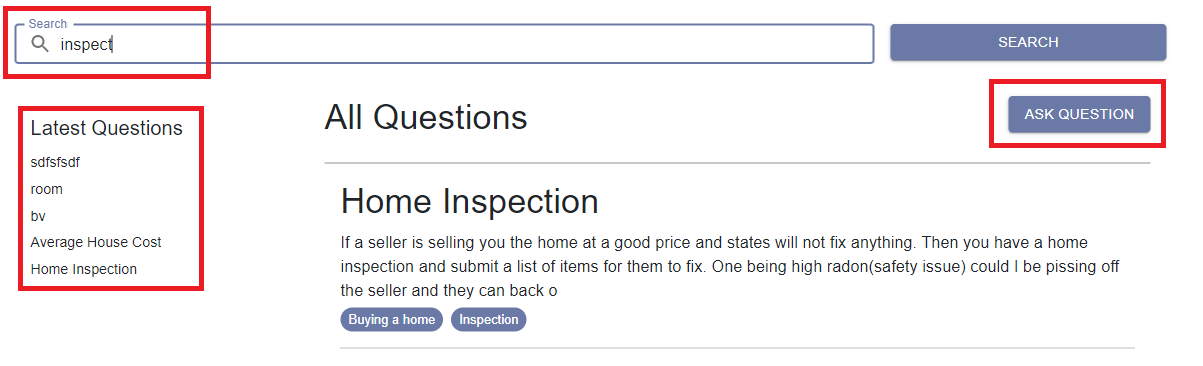
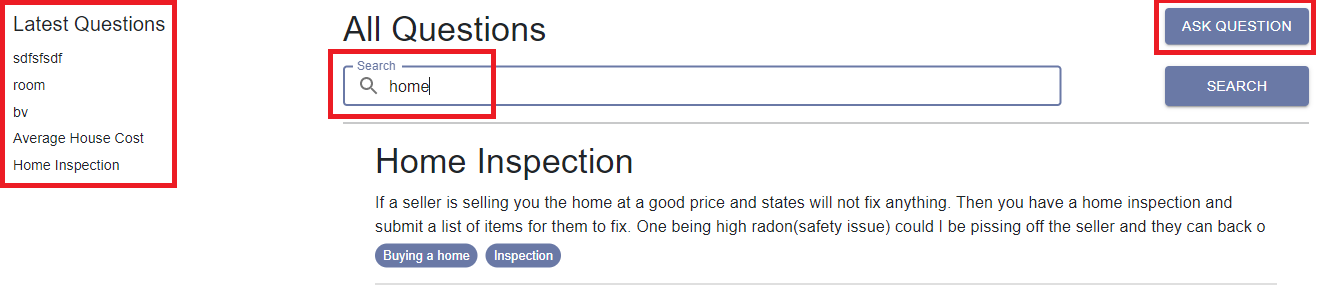
adjusted forum search bar

Changed region(s): [[0.0, 0.0, 1.0, 0.8154], [0.2768, 0.6342, 0.9534, 0.9664], [0.2768, 0.4832, 0.5229, 0.604]]

diff --git a/src/pages/Forums.js b/src/pages/Forums.js
@@ -1,4 +1,4 @@
-import { Container, Grid, Box, Button, InputAdornment, TextField } from "@mui/material";
+import { Divider, Typography, Box, Button, InputAdornment, TextField } from "@mui/material";
 import { Search } from '@mui/icons-material';
 import React, { useEffect, useState } from "react";
 import QuestionList from "../component/QuestionList";
@@ -6,9 +6,9 @@ import SideBar from "../component/SideBar";
 import { createTheme, ThemeProvider } from "@mui/material/styles";
 import { db } from '../firebaseSetup/firebase';
 import { collection, query, orderBy, onSnapshot, getCountFromServer, doc, getDoc } from "firebase/firestore";
-// import firebase from "firebase";
-import { Pagination } from 'react-bootstrap';
+import { Container, Row } from 'react-bootstrap';
 import { async } from "@firebase/util";
+import { Link } from "react-router-dom";
 
 const theme = createTheme({
     palette: {
@@ -41,49 +41,115 @@ export default function Forum() {
     return (
         <ThemeProvider theme={theme}>
             <Container style={{ marginTop: '2rem', marginBottom: '10rem' }}>
-                <Grid container>
-                    <Grid item container xs={12} spacing={2} justifyContent="flex-end" alignItems="center">
-                        <Grid item xs={12} md={8} >
-                            <TextField
-                                id="forum-search"
-                                label="Search"
-                                InputProps={{
-                                    startAdornment: (
-                                        <InputAdornment position="start">
-                                            <Search />
-                                        </InputAdornment>
-                                    ),
-                                }}
-                                variant="outlined"
-                                fullWidth
-                                size='small'
-                                type="text"
-                                name="searchItem"
-                                onChange={(event) => setSearchItem(event.target.value)}
-                            />
-                        </Grid>
-                        <Grid item xs={12} md={1}>
+                <div className="row">
+                    <div className="col-md-3">
+                        <SideBar />
+                    </div>
+                    <div className="col-md-9">                        
+                        <Row className="justify-content-between">
+                            <div className="col-sm-9">
+                                <Typography sx={{ flexGrow: 1, typography: { sm: 'h4', xs: 'h5' } }}>
+                                    All Questions
+                                </Typography>
+                            </div>
+                            <div className="col-sm-3 d-flex justify-content-end">
+                                <Link to={"/question/ask"} style={{textDecoration: 'none'}}>
+                                    <Button variant="contained" color="primary" style={{'width':'9rem', 'fontSize':'14px'}}>Ask Question</Button>
+                                </Link>
+                            </div>
+                        </Row>
+
+
+                        <Row className="justify-content-between" style={{'marginTop':'1rem'}}>
+                            <div className="col-sm-9">
+                                <TextField
+                                    id="forum-search"
+                                    label="Search"
+                                    InputProps={{
+                                        startAdornment: (
+                                            <InputAdornment position="start">
+                                                <Search />
+                                            </InputAdornment>
+                                        ),
+                                    }}
+                                    variant="outlined"
+                                    fullWidth
+                                    size='small'
+                                    type="text"
+                                    name="searchItem"
+                                    onChange={(event) => setSearchItem(event.target.value)}
+                                />
+                            </div>
+                            <div className="col-sm-3 d-flex justify-content-end">
                                 <Button
                                     variant="contained"
                                     fullWidth
                                     size='medium'
                                     type="submit"
                                     value="Submit"
+                                    style={{'width':'9rem', 'fontSize':'14px'}}
                                     onClick={handleSearch}
                                 >
                                     Search
                                 </Button>
-                        </Grid>
-                    </Grid>
-                    <Grid item container spacing={{ xs: 2, md: 3 }} columns={{ xs: 4, sm: 8, md: 12 }}>
-                        <Grid item xs={3}>
+                            </div>
+                        </Row>
+                        <Divider sx={{ border: 1 }} style={{'marginTop':'1rem'}}/>
+                        <QuestionList searchItem={searchItem}/>
+                    </div>
+                </div>
+
+
+
+                {/* <Grid container>
+                    
+                    <Grid item container spacing={{ xs: 2, md: 3 }} columns={{ xs: 4, sm: 8, md: 12 }} direction='row'>
+                        <Grid item xs={3} style={{'padding':'none'}}>
                             <SideBar />
                         </Grid>
                         <Grid item xs={9}>
                             <QuestionList searchItem={searchItem}/>
                         </Grid>
                     </Grid>
-                </Grid>
+                    <Grid item container spacing={{ xs: 2, md: 3 }} columns={{ xs: 4, sm: 8, md: 12 }} direction='column'>
+                        <Grid item container xs={12} spacing={2} justifyContent="flex-end" alignItems="center">
+                            <Grid item xs={12} md={8} >
+                                <TextField
+                                    id="forum-search"
+                                    label="Search"
+                                    InputProps={{
+                                        startAdornment: (
+                                            <InputAdornment position="start">
+                                                <Search />
+                                            </InputAdornment>
+                                        ),
+                                    }}
+                                    variant="outlined"
+                                    fullWidth
+                                    size='small'
+                                    type="text"
+                                    name="searchItem"
+                                    onChange={(event) => setSearchItem(event.target.value)}
+                                />
+                            </Grid>
+                            <Grid item xs={12} md={1}>
+                                    <Button
+                                        variant="contained"
+                                        fullWidth
+                                        size='medium'
+                                        type="submit"
+                                        value="Submit"
+                                        onClick={handleSearch}
+                                    >
+                                        Search
+                                    </Button>
+                            </Grid>
+                        </Grid>
+                    </Grid>
+                    <Grid item container xs={12} spacing={2} justifyContent="flex-end" alignItems="center">
+                        
+                    </Grid>
+                </Grid> */}
             </Container>
         </ThemeProvider>
     );

diff --git a/src/component/QuestionList.js b/src/component/QuestionList.js
@@ -33,16 +33,6 @@ export default function QuestionList(props) {
 
     return (
         <Box sx={{ m: 2 }}>
-            <Box display="grid" sx={{ display: "flex", my:1, py:2}}>
-                <Typography sx={{ flexGrow: 1, typography: { sm: 'h4', xs: 'h5' } }}>
-                    All Questions
-                </Typography>
-                <Link to={"/question/ask"} style={{textDecoration: 'none'}}>
-                    <Button variant="contained" color="primary">Ask Question</Button>
-                </Link>
-            </Box>
-            <Divider sx={{ border: 1 }}/>
-
             {searchResult.map((question) => (
                 <QuestionBox
                     id = {question.id}
@@ -52,10 +42,6 @@ export default function QuestionList(props) {
                     tag = {question.data.tag}
                 />
             ))}
-
-            {/* <Box sx={{p:3, justifyContent: 'center', display: 'flex',}}>
-                <Pagination count={10} />
-            </Box> */}
         </Box>
     );
 }

diff --git a/src/component/SideBar.js b/src/component/SideBar.js
@@ -25,11 +25,11 @@ export default function SideBar() {
     }
 
     return (
-        <Box sx={{P: 1}}>
-            <Box sx={{p: 2}}>
-                {/* <Button variant="contained" color="primary" onClick={goBack}>Go Back123</Button> */}
-            </Box>
-            <Box sx={{p: 2}}>
+        <Box sx={{p: 0}}>
+            {/* <Box sx={{p: 2}}>
+                <Button variant="contained" color="primary" onClick={goBack}>Go Back123</Button>
+            </Box> */}
+            <Box sx={{p: 0}}>
                 <Typography variant="h6" gutterBottom>
                     Latest Questions
                 </Typography>
